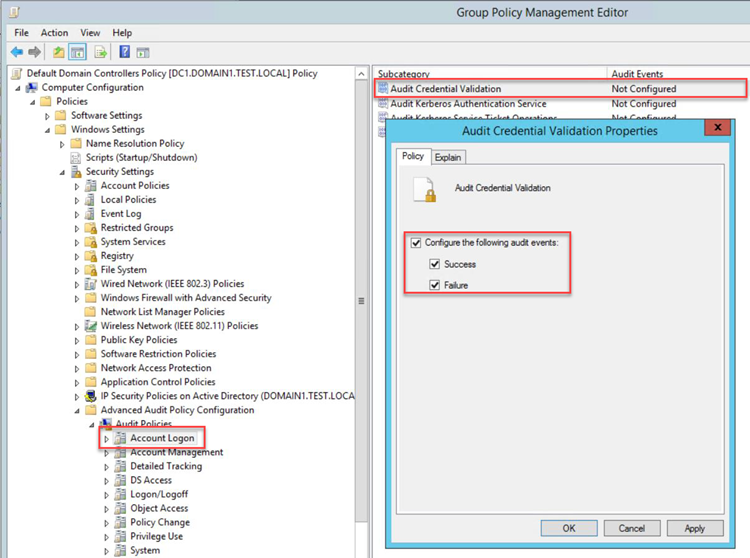
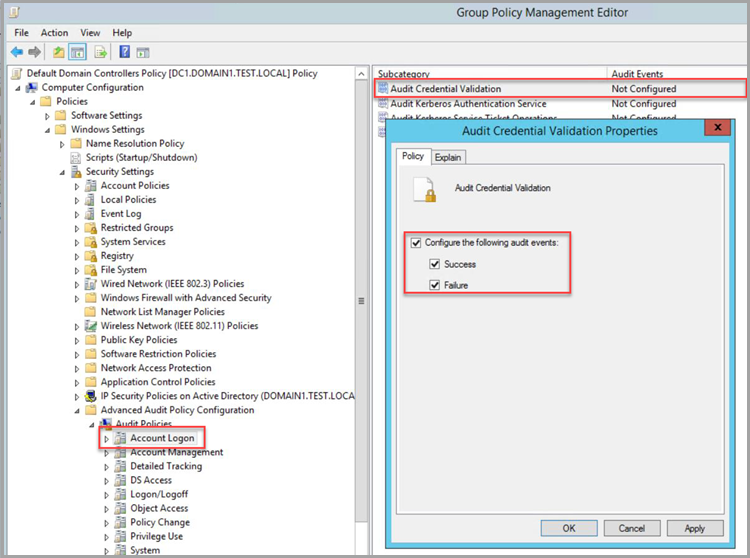
2.47 new advanced audit policy check

Changed region(s): [[0.0, 0.0, 1.0, 1.0]]

diff --git a/ATPDocs/atp-advanced-audit-policy.md b/ATPDocs/atp-advanced-audit-policy.md
@@ -1,7 +1,7 @@
 ---
 # required metadata
 
-title: Advanced Audit Policy Check | Microsoft Docs
+title: Advanced Audit Policy check | Microsoft Docs
 d|Description: This article provides an overview of Azure ATP's Advanced Audit Policy check.
 keywords:
 author: mlottner
@@ -29,7 +29,7 @@ ms.suite: ems
 *Applies to: Azure Advanced Threat Protection*
 
 
-# Azure ATP Advanced Audit Policy Check
+# Azure ATP Advanced Audit Policy check
 
 Azure ATP detection relies on specific Windows Event Logs for visibility in certain scenarios, such as NTLM logons, security group modifications, and similar events. For the correct events to be audited and included in the Windows Event Log, your domain controllers require accurate Advanced Audit Policy settings. Incorrect Advanced Audit Policy settings leave critical events out of your logs, and result in incomplete Azure ATP coverage. <br>
 <br>To make it easier to verify the current status of each of your domain controller’s Advanced Audit Policies, Azure ATP automatically checks your existing Advanced Audit Policies and issues health alerts for policy settings that require modification. Each health alert provides specific details of the domain controller, the problematic policy as well as remediation suggestions.
@@ -50,11 +50,11 @@ Advanced Security Audit Policy is enabled via GPO. These audit events are record
 
     ![Advanced Audit Policy Configuration](media/atp-advanced-audit-policy-check-step-2.png)
 
-5. Go to Account Login, double click on **Audit Credential Validation** and select **Configure the following audit events** for both success and failure events. 
+5. Go to Account Logon, double click on **Audit Credential Validation** and select **Configure the following audit events** for both success and failure events. 
 
     ![Credential validation](media/atp-advanced-audit-policy-check-step-3.png)
 
-6. Go to Account management, double click on **Audit Security Group Management** and enable audit events for both successful and failed events.
+6. Go to Account Logon , double click on **Audit Security Group Management** and select **Configure the following audit events** for both success and failure events.
 
     ![Audit Security Group Management](media/atp-advanced-audit-policy-check-step-4.png)
 
